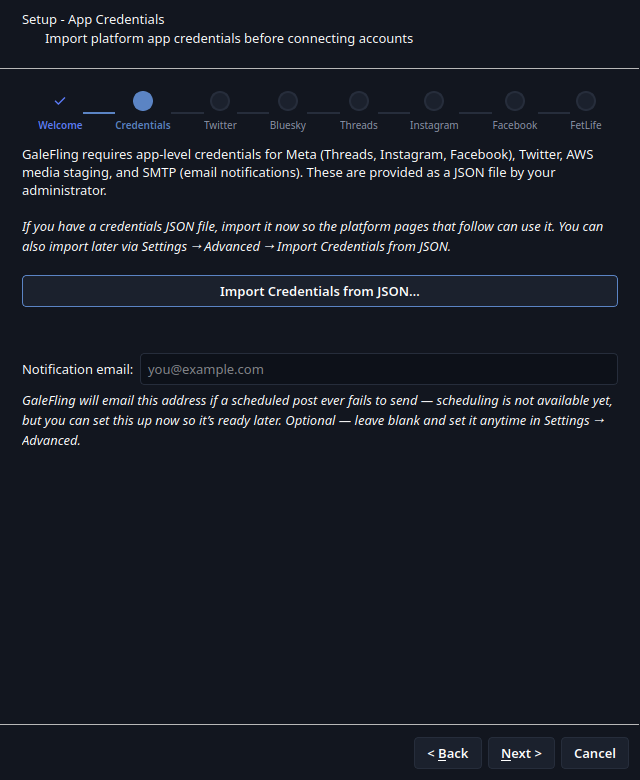
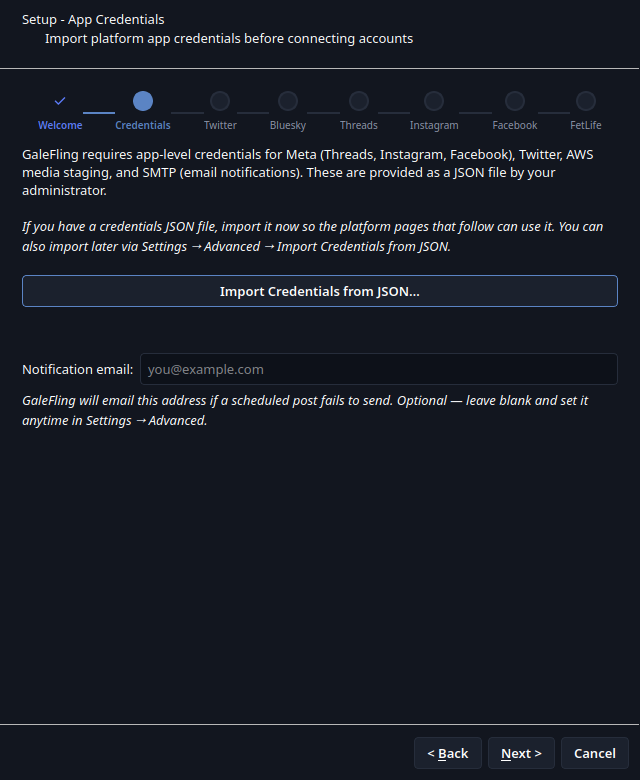
Update scheduling availability text in setup wizard
Remove the obsolete claim that scheduling is unavailable, regenerate the
credentials-step screenshot from the live wizard, and protect the copy with
a focused regression test.

🌸 Shipped with Kanna — https://kanna.sh

Kanna-Agent: codex/gpt-5.6-sol

Changed region(s): [[0.0312, 0.4923, 0.9688, 0.5846]]

diff --git a/tests/test_setup_wizard_pages.py b/tests/test_setup_wizard_pages.py
@@ -1,5 +1,7 @@
 from __future__ import annotations
 
+from PyQt6.QtWidgets import QLabel
+
 from src.gui.setup_wizard import (
     _META_PROVIDER_DEFS,
     BlueskySetupPage,
@@ -82,6 +84,15 @@ def test_credential_import_page_prefills_notification_email(qtbot):
     qtbot.addWidget(page)
 
     assert page._notification_email_edit.text() == 'rin@example.com'
+
+
+def test_credential_import_page_describes_scheduled_failure_email(qtbot):
+    page = CredentialImportPage(_DummyAuthManager(), _DummyConfigManager())
+    qtbot.addWidget(page)
+
+    label_text = ' '.join(label.text() for label in page.findChildren(QLabel))
+    assert 'scheduled post fails to send' in label_text
+    assert 'scheduling is not available yet' not in label_text
 
 
 def test_credential_import_page_validate_saves_notification_email(qtbot):

diff --git a/src/gui/setup_wizard.py b/src/gui/setup_wizard.py
@@ -314,9 +314,8 @@ class CredentialImportPage(QWizardPage):
         layout.addLayout(notification_form)
 
         notification_hint = QLabel(
-            '<i>GaleFling will email this address if a scheduled post ever fails to send — '
-            'scheduling is not available yet, but you can set this up now so it’s ready '
-            'later. Optional — leave blank and set it anytime in Settings → Advanced.</i>'
+            '<i>GaleFling will email this address if a scheduled post fails to send. '
+            'Optional — leave blank and set it anytime in Settings → Advanced.</i>'
         )
         notification_hint.setWordWrap(True)
         layout.addWidget(notification_hint)
